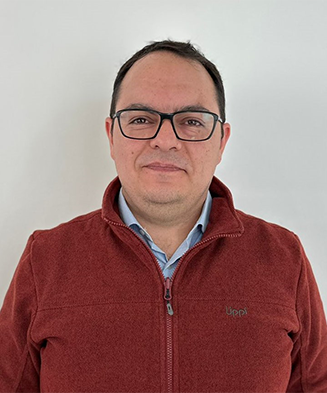
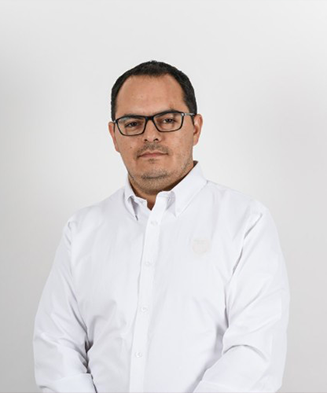
Added new team member Edgar Baeza to the team section in Index.html; updated contact details in turnos_soporte.json. Replaced team images for Benjy, Edgar, and Ricardo.

diff --git a/Index.html b/Index.html
@@ -970,6 +970,28 @@
                             </div>
 
                             <!-- Single Item -->
+                            <div class="swiper-slide">
+                                <div class="th-team team-box4">
+                                    <div class="team-img-wrap">
+                                        <div class="team-img">
+                                            <img src="assets/img/team/edgar.png" alt="Team">
+                                        </div>
+                                        <div class="th-social">
+                                            <a target="_blank" href="mailto:avillegas@verfrut.cl"><i
+                                                    class="far fa-envelope"></i></a>
+                                        </div>
+                                    </div>
+                                    <div class="team-content">
+
+                                        <div class="media-body">
+                                            <h3 class="box-title"><a href="team-details.html">Edgar Baeza</a></h3>
+                                            <span class="team-desig">Soporte y Redes TI</span>
+                                        </div>
+                            </div>
+                            </div>
+                            </div>
+
+                            <!-- Single Item -->
                             <!-- <div class="swiper-slide">
                                 <div class="th-team team-box4">
                                     <div class="team-img-wrap">
